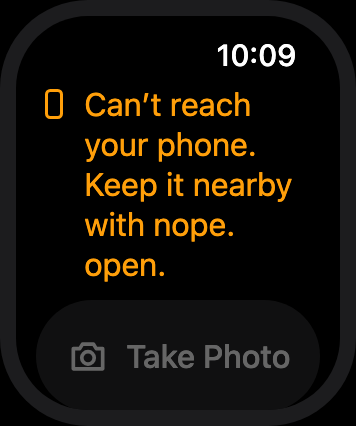
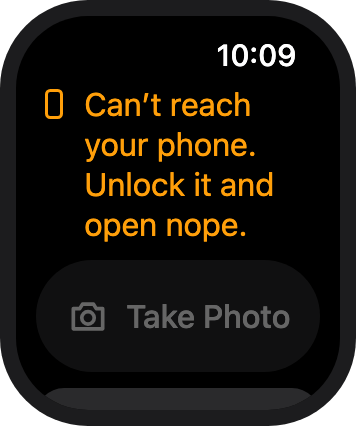
Watch unreachable warning: docs, device check, comps and changelog
Follows the new watch text. The phoneNotReachable doc comment and its API
reference name the locked and background cases; the "Apple Watch on a
device" check expects the unreachable warning when the iPhone is locked or
nope. is in the background or closed; the two design PNGs are re-rendered
from their updated HTML; the 40 mm comp is captioned "A long status at
40 mm"; and the 1.0.0 changelog records the text change.

diff --git a/docs/design/watch.html b/docs/design/watch.html
@@ -67,7 +67,7 @@ code{font:13px ui-monospace,Menlo,monospace}
 <li>No night mode on the watch: the watch app does not turn red when Night Mode is on. No complication and no Smart Stack widget.</li>
 <li>No special Always On drawing: the system dims the app.</li></ul>
 <p>These are statements of what exists in 1.0.0, not gaps in the drawings. None is added in 1.0.0; a stored Delay, or night mode on the watch, would be new capabilities.</p>
-<h2>States</h2><h3 id="the">The screen and its results</h3><div class="figs small"><figure id="watch-ready"><a href="screens/watch-ready.html"><img src="screens/watch-ready.png" width="180" alt="Apple Watch: Ready" loading="lazy" style="border-radius:12px"></a><figcaption><b>Apple Watch: Ready</b>Status, the shutter and Delay. The button is at least 56 pt tall and full width.</figcaption></figure><figure id="watch-countdown"><a href="screens/watch-countdown.html"><img src="screens/watch-countdown.png" width="180" alt="Apple Watch: Counting down" loading="lazy" style="border-radius:12px"></a><figcaption><b>Apple Watch: Counting down</b>The button becomes Cancel Timer; each second is a tap on the wrist.</figcaption></figure><figure id="watch-taking"><a href="screens/watch-taking.html"><img src="screens/watch-taking.png" width="180" alt="Apple Watch: Taking the photo" loading="lazy" style="border-radius:12px"></a><figcaption><b>Apple Watch: Taking the photo</b>The shutter is disabled while the phone works.</figcaption></figure><figure id="watch-saved"><a href="screens/watch-saved.html"><img src="screens/watch-saved.png" width="180" alt="Apple Watch: Saved, not signed" loading="lazy" style="border-radius:12px"></a><figcaption><b>Apple Watch: Saved, not signed</b>With signing off this is plain status, not a warning.</figcaption></figure><figure id="watch-signed"><a href="screens/watch-signed.html"><img src="screens/watch-signed.png" width="180" alt="Apple Watch: Saved and signed" loading="lazy" style="border-radius:12px"></a><figcaption><b>Apple Watch: Saved and signed</b>Teal marks the verified result, with a seal and words.</figcaption></figure><figure id="watch-several-signed"><a href="screens/watch-several-signed.html"><img src="screens/watch-several-signed.png" width="180" alt="Apple Watch: Several photos saved and signed" loading="lazy" style="border-radius:12px"></a><figcaption><b>Apple Watch: Several photos saved and signed</b>A bracket started on the phone’s settings: every photo is signed.</figcaption></figure><figure id="watch-several-unsigned"><a href="screens/watch-several-unsigned.html"><img src="screens/watch-several-unsigned.png" width="180" alt="Apple Watch: Several photos saved, not all signed" loading="lazy" style="border-radius:12px"></a><figcaption><b>Apple Watch: Several photos saved, not all signed</b>Some photos of the bracket are not signed. As with one photo, this reads as plain status when signing is off by choice (BUILD-SPEC.md, section 6, item 6).</figcaption></figure><figure id="watch-failed"><a href="screens/watch-failed.html"><img src="screens/watch-failed.png" width="180" alt="Apple Watch: Not saved" loading="lazy" style="border-radius:12px"></a><figcaption><b>Apple Watch: Not saved</b>The watch points to the phone, which shows the reason.</figcaption></figure><figure id="watch-cancelled"><a href="screens/watch-cancelled.html"><img src="screens/watch-cancelled.png" width="180" alt="Apple Watch: Timer canceled" loading="lazy" style="border-radius:12px"></a><figcaption><b>Apple Watch: Timer canceled</b>After Cancel Timer: plain status, and the shutter is back.</figcaption></figure><figure id="watch-busy"><a href="screens/watch-busy.html"><img src="screens/watch-busy.png" width="180" alt="Apple Watch: The phone was busy" loading="lazy" style="border-radius:12px"></a><figcaption><b>Apple Watch: The phone was busy</b>The phone was already taking a photo, counting down, in a burst or in a series, so nothing was taken.</figcaption></figure><figure id="watch-delay"><a href="screens/watch-delay.html"><img src="screens/watch-delay.png" width="180" alt="Apple Watch: Delay" loading="lazy" style="border-radius:12px"></a><figcaption><b>Apple Watch: Delay</b>A pushed list: Off, 3 seconds, 10 seconds.</figcaption></figure></div><h3 id="when">When the camera is not available</h3><div class="figs small"><figure id="watch-connecting"><a href="screens/watch-connecting.html"><img src="screens/watch-connecting.png" width="180" alt="Apple Watch: Connecting" loading="lazy" style="border-radius:12px"></a><figcaption><b>Apple Watch: Connecting</b>While the watch first reaches the phone. Plain status; the shutter is disabled.</figcaption></figure><figure id="watch-unreachable"><a href="screens/watch-unreachable.html"><img src="screens/watch-unreachable.png" width="180" alt="Apple Watch: Phone not reachable" loading="lazy" style="border-radius:12px"></a><figcaption><b>Apple Watch: Phone not reachable</b>Amber, with a symbol and words; the shutter is disabled.</figcaption></figure><figure id="watch-no-access"><a href="screens/watch-no-access.html"><img src="screens/watch-no-access.png" width="180" alt="Apple Watch: Camera access needed" loading="lazy" style="border-radius:12px"></a><figcaption><b>Apple Watch: Camera access needed</b>One of four camera-unavailable messages.</figcaption></figure><figure id="watch-access-off"><a href="screens/watch-access-off.html"><img src="screens/watch-access-off.png" width="180" alt="Apple Watch: Camera access is off" loading="lazy" style="border-radius:12px"></a><figcaption><b>Apple Watch: Camera access is off</b>Camera access was refused on the phone. Amber, with a triangle and words.</figcaption></figure><figure id="watch-no-camera"><a href="screens/watch-no-camera.html"><img src="screens/watch-no-camera.png" width="180" alt="Apple Watch: No camera" loading="lazy" style="border-radius:12px"></a><figcaption><b>Apple Watch: No camera</b>The phone has no usable camera.</figcaption></figure><figure id="watch-not-running"><a href="screens/watch-not-running.html"><img src="screens/watch-not-running.png" width="180" alt="Apple Watch: nope. not running on the phone" loading="lazy" style="border-radius:12px"></a><figcaption><b>Apple Watch: nope. not running on the phone</b>The camera is not running on the phone.</figcaption></figure><figure id="watch-not-taken"><a href="screens/watch-not-taken.html"><img src="screens/watch-not-taken.png" width="180" alt="Apple Watch: No photo taken" loading="lazy" style="border-radius:12px"></a><figcaption><b>Apple Watch: No photo taken</b>Nothing was taken because the camera was not available; the status line says why.</figcaption></figure><figure id="watch-update"><a href="screens/watch-update.html"><img src="screens/watch-update.png" width="180" alt="Apple Watch: Versions differ" loading="lazy" style="border-radius:12px"></a><figcaption><b>Apple Watch: Versions differ</b>The phone and the watch run different versions.</figcaption></figure></div><h3 id="case">Case sizes</h3><div class="figs small"><figure id="watch-40mm"><a href="screens/watch-40mm.html"><img src="screens/watch-40mm.png" width="180" alt="Apple Watch: Smallest case (40 mm)" loading="lazy" style="border-radius:12px"></a><figcaption><b>Apple Watch: Smallest case (40 mm)</b>The set is drawn at 46 mm (208 × 248 pt). At 40 mm (162 × 197 pt) the status wraps, the shutter keeps its 56 pt height and Delay scrolls into view. Nothing is cut.</figcaption></figure><figure id="watch-40mm-warning"><a href="screens/watch-40mm-warning.html"><img src="screens/watch-40mm-warning.png" width="180" alt="Apple Watch: Smallest case, a long message" loading="lazy" style="border-radius:12px"></a><figcaption><b>Apple Watch: Smallest case, a long message</b>The longest status at 40 mm: it wraps to four lines and the view scrolls to the shutter.</figcaption></figure><figure id="watch-49mm"><a href="screens/watch-49mm.html"><img src="screens/watch-49mm.png" width="180" alt="Apple Watch: Largest case (49 mm)" loading="lazy" style="border-radius:12px"></a><figcaption><b>Apple Watch: Largest case (49 mm)</b>At 49 mm (205 × 251 pt) the layout is the 46 mm one with slightly more height.</figcaption></figure></div><h3 id="largest">Largest text size</h3><div class="figs small"><figure id="watch-largest"><a href="screens/watch-largest.html"><img src="screens/watch-largest.png" width="180" alt="Apple Watch: Largest text size" loading="lazy" style="border-radius:12px"></a><figcaption><b>Apple Watch: Largest text size</b>The view scrolls; the status wraps and nothing is cut.</figcaption></figure><figure id="watch-largest-countdown"><a href="screens/watch-largest-countdown.html"><img src="screens/watch-largest-countdown.png" width="180" alt="Apple Watch: Largest text size, counting down" loading="lazy" style="border-radius:12px"></a><figcaption><b>Apple Watch: Largest text size, counting down</b>The countdown wraps and Cancel Timer follows; the view scrolls.</figcaption></figure><figure id="watch-largest-delay"><a href="screens/watch-largest-delay.html"><img src="screens/watch-largest-delay.png" width="180" alt="Apple Watch: Largest text size, Delay" loading="lazy" style="border-radius:12px"></a><figcaption><b>Apple Watch: Largest text size, Delay</b>The Delay list at the largest size: one option per row, scrolling.</figcaption></figure></div><h3 id="right">Right to left and a long language</h3><div class="figs small"><figure id="watch-rtl"><a href="screens/watch-rtl.html"><img src="screens/watch-rtl.png" width="180" alt="Apple Watch: Right to left" loading="lazy" style="border-radius:12px"></a><figcaption><b>Apple Watch: Right to left</b>Symbols lead on the right, the time moves to the left, and the Delay value trails on the left. Drawn with English text, as the right-to-left pseudo-language shows it.</figcaption></figure><figure id="watch-rtl-delay"><a href="screens/watch-rtl-delay.html"><img src="screens/watch-rtl-delay.png" width="180" alt="Apple Watch: Right to left, Delay" loading="lazy" style="border-radius:12px"></a><figcaption><b>Apple Watch: Right to left, Delay</b>The checkmark trails on the left.</figcaption></figure><figure id="watch-german"><a href="screens/watch-german.html"><img src="screens/watch-german.png" width="180" alt="Apple Watch: A long language (German)" loading="lazy" style="border-radius:12px"></a><figcaption><b>Apple Watch: A long language (German)</b>The app’s German strings. The button label wraps to two lines inside its 56 pt minimum height, and the Delay label and value stay on one row.</figcaption></figure><figure id="watch-german-warning"><a href="screens/watch-german-warning.html"><img src="screens/watch-german-warning.png" width="180" alt="Apple Watch: A long language, a warning" loading="lazy" style="border-radius:12px"></a><figcaption><b>Apple Watch: A long language, a warning</b>The longest German status wraps and the view scrolls.</figcaption></figure><figure id="watch-german-delay"><a href="screens/watch-german-delay.html"><img src="screens/watch-german-delay.png" width="180" alt="Apple Watch: A long language, Delay" loading="lazy" style="border-radius:12px"></a><figcaption><b>Apple Watch: A long language, Delay</b>The Delay list in German.</figcaption></figure></div><h3 id="always">Always On</h3><div class="figs small"><figure id="watch-always-on"><a href="screens/watch-always-on.html"><img src="screens/watch-always-on.png" width="180" alt="Apple Watch: Always On during a countdown" loading="lazy" style="border-radius:12px"></a><figcaption><b>Apple Watch: Always On during a countdown</b>With the wrist down the system dims the app. The watch app draws nothing special for this state: the countdown text and Cancel Timer stay, dimmed, and the taps on the wrist continue. How often the system refreshes the count while dimmed is checked on a device.</figcaption></figure></div>
+<h2>States</h2><h3 id="the">The screen and its results</h3><div class="figs small"><figure id="watch-ready"><a href="screens/watch-ready.html"><img src="screens/watch-ready.png" width="180" alt="Apple Watch: Ready" loading="lazy" style="border-radius:12px"></a><figcaption><b>Apple Watch: Ready</b>Status, the shutter and Delay. The button is at least 56 pt tall and full width.</figcaption></figure><figure id="watch-countdown"><a href="screens/watch-countdown.html"><img src="screens/watch-countdown.png" width="180" alt="Apple Watch: Counting down" loading="lazy" style="border-radius:12px"></a><figcaption><b>Apple Watch: Counting down</b>The button becomes Cancel Timer; each second is a tap on the wrist.</figcaption></figure><figure id="watch-taking"><a href="screens/watch-taking.html"><img src="screens/watch-taking.png" width="180" alt="Apple Watch: Taking the photo" loading="lazy" style="border-radius:12px"></a><figcaption><b>Apple Watch: Taking the photo</b>The shutter is disabled while the phone works.</figcaption></figure><figure id="watch-saved"><a href="screens/watch-saved.html"><img src="screens/watch-saved.png" width="180" alt="Apple Watch: Saved, not signed" loading="lazy" style="border-radius:12px"></a><figcaption><b>Apple Watch: Saved, not signed</b>With signing off this is plain status, not a warning.</figcaption></figure><figure id="watch-signed"><a href="screens/watch-signed.html"><img src="screens/watch-signed.png" width="180" alt="Apple Watch: Saved and signed" loading="lazy" style="border-radius:12px"></a><figcaption><b>Apple Watch: Saved and signed</b>Teal marks the verified result, with a seal and words.</figcaption></figure><figure id="watch-several-signed"><a href="screens/watch-several-signed.html"><img src="screens/watch-several-signed.png" width="180" alt="Apple Watch: Several photos saved and signed" loading="lazy" style="border-radius:12px"></a><figcaption><b>Apple Watch: Several photos saved and signed</b>A bracket started on the phone’s settings: every photo is signed.</figcaption></figure><figure id="watch-several-unsigned"><a href="screens/watch-several-unsigned.html"><img src="screens/watch-several-unsigned.png" width="180" alt="Apple Watch: Several photos saved, not all signed" loading="lazy" style="border-radius:12px"></a><figcaption><b>Apple Watch: Several photos saved, not all signed</b>Some photos of the bracket are not signed. As with one photo, this reads as plain status when signing is off by choice (BUILD-SPEC.md, section 6, item 6).</figcaption></figure><figure id="watch-failed"><a href="screens/watch-failed.html"><img src="screens/watch-failed.png" width="180" alt="Apple Watch: Not saved" loading="lazy" style="border-radius:12px"></a><figcaption><b>Apple Watch: Not saved</b>The watch points to the phone, which shows the reason.</figcaption></figure><figure id="watch-cancelled"><a href="screens/watch-cancelled.html"><img src="screens/watch-cancelled.png" width="180" alt="Apple Watch: Timer canceled" loading="lazy" style="border-radius:12px"></a><figcaption><b>Apple Watch: Timer canceled</b>After Cancel Timer: plain status, and the shutter is back.</figcaption></figure><figure id="watch-busy"><a href="screens/watch-busy.html"><img src="screens/watch-busy.png" width="180" alt="Apple Watch: The phone was busy" loading="lazy" style="border-radius:12px"></a><figcaption><b>Apple Watch: The phone was busy</b>The phone was already taking a photo, counting down, in a burst or in a series, so nothing was taken.</figcaption></figure><figure id="watch-delay"><a href="screens/watch-delay.html"><img src="screens/watch-delay.png" width="180" alt="Apple Watch: Delay" loading="lazy" style="border-radius:12px"></a><figcaption><b>Apple Watch: Delay</b>A pushed list: Off, 3 seconds, 10 seconds.</figcaption></figure></div><h3 id="when">When the camera is not available</h3><div class="figs small"><figure id="watch-connecting"><a href="screens/watch-connecting.html"><img src="screens/watch-connecting.png" width="180" alt="Apple Watch: Connecting" loading="lazy" style="border-radius:12px"></a><figcaption><b>Apple Watch: Connecting</b>While the watch first reaches the phone. Plain status; the shutter is disabled.</figcaption></figure><figure id="watch-unreachable"><a href="screens/watch-unreachable.html"><img src="screens/watch-unreachable.png" width="180" alt="Apple Watch: Phone not reachable" loading="lazy" style="border-radius:12px"></a><figcaption><b>Apple Watch: Phone not reachable</b>Amber, with a symbol and words; the shutter is disabled.</figcaption></figure><figure id="watch-no-access"><a href="screens/watch-no-access.html"><img src="screens/watch-no-access.png" width="180" alt="Apple Watch: Camera access needed" loading="lazy" style="border-radius:12px"></a><figcaption><b>Apple Watch: Camera access needed</b>One of four camera-unavailable messages.</figcaption></figure><figure id="watch-access-off"><a href="screens/watch-access-off.html"><img src="screens/watch-access-off.png" width="180" alt="Apple Watch: Camera access is off" loading="lazy" style="border-radius:12px"></a><figcaption><b>Apple Watch: Camera access is off</b>Camera access was refused on the phone. Amber, with a triangle and words.</figcaption></figure><figure id="watch-no-camera"><a href="screens/watch-no-camera.html"><img src="screens/watch-no-camera.png" width="180" alt="Apple Watch: No camera" loading="lazy" style="border-radius:12px"></a><figcaption><b>Apple Watch: No camera</b>The phone has no usable camera.</figcaption></figure><figure id="watch-not-running"><a href="screens/watch-not-running.html"><img src="screens/watch-not-running.png" width="180" alt="Apple Watch: nope. not running on the phone" loading="lazy" style="border-radius:12px"></a><figcaption><b>Apple Watch: nope. not running on the phone</b>The camera is not running on the phone.</figcaption></figure><figure id="watch-not-taken"><a href="screens/watch-not-taken.html"><img src="screens/watch-not-taken.png" width="180" alt="Apple Watch: No photo taken" loading="lazy" style="border-radius:12px"></a><figcaption><b>Apple Watch: No photo taken</b>Nothing was taken because the camera was not available; the status line says why.</figcaption></figure><figure id="watch-update"><a href="screens/watch-update.html"><img src="screens/watch-update.png" width="180" alt="Apple Watch: Versions differ" loading="lazy" style="border-radius:12px"></a><figcaption><b>Apple Watch: Versions differ</b>The phone and the watch run different versions.</figcaption></figure></div><h3 id="case">Case sizes</h3><div class="figs small"><figure id="watch-40mm"><a href="screens/watch-40mm.html"><img src="screens/watch-40mm.png" width="180" alt="Apple Watch: Smallest case (40 mm)" loading="lazy" style="border-radius:12px"></a><figcaption><b>Apple Watch: Smallest case (40 mm)</b>The set is drawn at 46 mm (208 × 248 pt). At 40 mm (162 × 197 pt) the status wraps, the shutter keeps its 56 pt height and Delay scrolls into view. Nothing is cut.</figcaption></figure><figure id="watch-40mm-warning"><a href="screens/watch-40mm-warning.html"><img src="screens/watch-40mm-warning.png" width="180" alt="Apple Watch: Smallest case, a long message" loading="lazy" style="border-radius:12px"></a><figcaption><b>Apple Watch: Smallest case, a long message</b>A long status at 40 mm: it wraps to four lines and the view scrolls to the shutter.</figcaption></figure><figure id="watch-49mm"><a href="screens/watch-49mm.html"><img src="screens/watch-49mm.png" width="180" alt="Apple Watch: Largest case (49 mm)" loading="lazy" style="border-radius:12px"></a><figcaption><b>Apple Watch: Largest case (49 mm)</b>At 49 mm (205 × 251 pt) the layout is the 46 mm one with slightly more height.</figcaption></figure></div><h3 id="largest">Largest text size</h3><div class="figs small"><figure id="watch-largest"><a href="screens/watch-largest.html"><img src="screens/watch-largest.png" width="180" alt="Apple Watch: Largest text size" loading="lazy" style="border-radius:12px"></a><figcaption><b>Apple Watch: Largest text size</b>The view scrolls; the status wraps and nothing is cut.</figcaption></figure><figure id="watch-largest-countdown"><a href="screens/watch-largest-countdown.html"><img src="screens/watch-largest-countdown.png" width="180" alt="Apple Watch: Largest text size, counting down" loading="lazy" style="border-radius:12px"></a><figcaption><b>Apple Watch: Largest text size, counting down</b>The countdown wraps and Cancel Timer follows; the view scrolls.</figcaption></figure><figure id="watch-largest-delay"><a href="screens/watch-largest-delay.html"><img src="screens/watch-largest-delay.png" width="180" alt="Apple Watch: Largest text size, Delay" loading="lazy" style="border-radius:12px"></a><figcaption><b>Apple Watch: Largest text size, Delay</b>The Delay list at the largest size: one option per row, scrolling.</figcaption></figure></div><h3 id="right">Right to left and a long language</h3><div class="figs small"><figure id="watch-rtl"><a href="screens/watch-rtl.html"><img src="screens/watch-rtl.png" width="180" alt="Apple Watch: Right to left" loading="lazy" style="border-radius:12px"></a><figcaption><b>Apple Watch: Right to left</b>Symbols lead on the right, the time moves to the left, and the Delay value trails on the left. Drawn with English text, as the right-to-left pseudo-language shows it.</figcaption></figure><figure id="watch-rtl-delay"><a href="screens/watch-rtl-delay.html"><img src="screens/watch-rtl-delay.png" width="180" alt="Apple Watch: Right to left, Delay" loading="lazy" style="border-radius:12px"></a><figcaption><b>Apple Watch: Right to left, Delay</b>The checkmark trails on the left.</figcaption></figure><figure id="watch-german"><a href="screens/watch-german.html"><img src="screens/watch-german.png" width="180" alt="Apple Watch: A long language (German)" loading="lazy" style="border-radius:12px"></a><figcaption><b>Apple Watch: A long language (German)</b>The app’s German strings. The button label wraps to two lines inside its 56 pt minimum height, and the Delay label and value stay on one row.</figcaption></figure><figure id="watch-german-warning"><a href="screens/watch-german-warning.html"><img src="screens/watch-german-warning.png" width="180" alt="Apple Watch: A long language, a warning" loading="lazy" style="border-radius:12px"></a><figcaption><b>Apple Watch: A long language, a warning</b>The longest German status wraps and the view scrolls.</figcaption></figure><figure id="watch-german-delay"><a href="screens/watch-german-delay.html"><img src="screens/watch-german-delay.png" width="180" alt="Apple Watch: A long language, Delay" loading="lazy" style="border-radius:12px"></a><figcaption><b>Apple Watch: A long language, Delay</b>The Delay list in German.</figcaption></figure></div><h3 id="always">Always On</h3><div class="figs small"><figure id="watch-always-on"><a href="screens/watch-always-on.html"><img src="screens/watch-always-on.png" width="180" alt="Apple Watch: Always On during a countdown" loading="lazy" style="border-radius:12px"></a><figcaption><b>Apple Watch: Always On during a countdown</b>With the wrist down the system dims the app. The watch app draws nothing special for this state: the countdown text and Cancel Timer stay, dimmed, and the taps on the wrist continue. How often the system refreshes the count while dimmed is checked on a device.</figcaption></figure></div>
 </main>
 </body>
 </html>

diff --git a/docs/design/screens/watch-40mm-warning.html b/docs/design/screens/watch-40mm-warning.html
@@ -186,6 +186,6 @@ html{background:#101012}body{margin:0;color:#f2f2f7;font:15px/1.45 -apple-system
 </head>
 <body>
 <div class="stage"><div style="box-sizing:border-box;padding:8px;background:#1c1c1e;border-radius:44px;width:178px"><div class="watch" style="width:162px;height:197px;border-radius:36px"><div class="time">10:09</div><div class="st w"><svg class="ic " width="18" height="18" viewBox="0 0 24 24" fill="none" stroke="currentColor" stroke-width="2" stroke-linecap="round" stroke-linejoin="round" aria-hidden="true"><rect x="7" y="3" width="10" height="18" rx="2.5"/></svg><span>Can’t reach your phone. Unlock it and open nope.</span></div><div class="wb dis"><svg class="ic " width="22" height="22" viewBox="0 0 24 24" fill="none" stroke="currentColor" stroke-width="2" stroke-linecap="round" stroke-linejoin="round" aria-hidden="true"><path d="M4 8h3.5l1.5-2.5h6L16.5 8H20v11H4z"/><circle cx="12" cy="13" r="3.4"/></svg><span>Take Photo</span></div><div class="wb row"><svg class="ic " width="18" height="18" viewBox="0 0 24 24" fill="none" stroke="currentColor" stroke-width="2" stroke-linecap="round" stroke-linejoin="round" aria-hidden="true"><circle cx="12" cy="13.5" r="7"/><path d="M12 13.5V9.5M10 3.5h4"/></svg><span style="flex:1">Delay</span><span style="opacity:.6">Off</span></div></div></div></div>
-<div class="note"><b>Apple Watch: Smallest case, a long message</b>The longest status at 40 mm: it wraps to four lines and the view scrolls to the shutter. Drawn at 178 × 213 pt. <a href="watch-40mm-warning.png">PNG</a> · <a href="../watch.html">Back to the set</a> · <a href="../overview.html">Overview</a></div>
+<div class="note"><b>Apple Watch: Smallest case, a long message</b>A long status at 40 mm: it wraps to four lines and the view scrolls to the shutter. Drawn at 178 × 213 pt. <a href="watch-40mm-warning.png">PNG</a> · <a href="../watch.html">Back to the set</a> · <a href="../overview.html">Overview</a></div>
 </body>
 </html>

diff --git a/Sources/NopeCore/WatchRemote.swift b/Sources/NopeCore/WatchRemote.swift
@@ -41,8 +41,8 @@ public final class WatchRemote {
         /// The watch hasn't heard from the phone yet. Show a neutral placeholder.
         case connecting
 
-        /// The iPhone app can't be reached: the phone is away, off or locked out of the link.
-        /// Say to keep the phone nearby with the app open.
+        /// The iPhone app can't be reached: the phone is away, off or locked, or the app is
+        /// closed or in the background. Say to unlock the phone and open the app.
         case phoneNotReachable
 
         /// The phone's camera is ready. Enable the shutter.

diff --git a/CHANGELOG.md b/CHANGELOG.md
@@ -44,6 +44,7 @@ Languages: 1.0.0 ships in English only (issue #86); Spanish (es, with es-419 ove
   - With Assistant Access (issue #82), Take Bracket with the type Focus asks its own question ("Take a focus bracket of 10 photos?"), and Photos Saved counts the photos a focus bracket saved before it stopped.
 
 ### Changed
+- Apple Watch: when the phone can't be reached, the watch says "Can't reach your phone. Unlock it and open nope." in place of "Keep it nearby with nope. open." iOS suspends the iPhone app when the phone locks or another app comes to the front, and the earlier text named neither case.
 - The self-timer counts down to a fixed deadline (issue #122): a 10-second timer takes its photo 10 seconds after it was started, late only by its last wake instead of by the sum of ten. The number shown is the whole seconds left, rounded up; if the app is held up for more than a second a number is skipped and the photo is still on time. The same countdown runs the Astro start delay and the delays of Take Photo and Take Bracket. `Countdown.deadline` is public, and the Live Activity draws its countdown to it.
 - Interval photos are spaced start to start (issue #123, owner decision): each photo starts one interval after the last one started, so a 2-second exposure every 10 seconds takes a photo every 10 seconds, not every 12, and a series of a number of photos ends when its estimate says while each photo fits. When a photo takes longer than the interval, the next starts as soon as it is saved, with no catch-up photos, and the card says "Each photo takes longer than the interval" in place of "Next photo in" (announced once to VoiceOver) until a photo fits again. A series paused past a start takes that photo when it resumes and continues from it. Interval Shooting says "Takes 10 photos, starting one every 10 seconds.", and when a shutter set by hand is longer than the interval, "The shutter time is longer than the interval, so photos follow one another." (decision 10 of the plan). `NopeCore`: `IntervalProgress.nextPhotoStart` and `isBehindSchedule`, `ManualControlsModel.isShutterLongerThanInterval`. The four new strings are drafts for the Honesty review.
 - An interval series that stops after a time ends on the monotonic clock (issue #106): its end is a moment of `ContinuousClock` set when it starts (`IntervalProgress.deadline` and `duration`, replacing `timeSpan`), so changing the device's time no longer ends it early or late. As decided on 2026-11-18, the end keeps running while the series is paused and while the phone sleeps. The end is shown as a date only when it is shown (`IntervalProgress.endDate(clock:)`, and `timeSpan(date:now:)` for the Live Activity), and the card reads the time left and the next photo's countdown from the monotonic clock.

diff --git a/docs/TESTING.md b/docs/TESTING.md
@@ -1930,10 +1930,12 @@ what needs no hardware, the watchOS Simulator.
   the iPhone); the watch shows "Photo in 3 seconds" and counts down with a light haptic each
   second; Cancel Timer on the watch stops it and nothing is taken; cancelling on the iPhone shows
   "Timer canceled. No photo taken." on the watch.
-- Nothing taken when the camera isn't available: with the iPhone app in the background, closed,
-  or with Settings open over the camera, the watch says "Camera not available. Open nope. on your
-  phone." and Take Photo is disabled; opening the app later takes no photo. With camera access
-  declined, the watch says so. With the iPhone out of range or off, "Can't reach your phone".
+- Nothing taken when the camera isn't available: with Settings open over the camera on the
+  iPhone, the watch says "Camera not available. Open nope. on your phone." and Take Photo is
+  disabled; opening the camera later takes no photo. With camera access declined, the watch says
+  so. With the iPhone locked, the iPhone app in the background or closed, or the iPhone out of
+  range or off, the watch says "Can't reach your phone. Unlock it and open nope." and Take Photo
+  is disabled.
 - A photo whose result the watch missed (lower the wrist during the countdown): raising it shows
   the result.
 - VoiceOver on the watch reads the status, the shutter and the delay, and announces each

diff --git a/docs/api/NopeCore.md b/docs/api/NopeCore.md
@@ -33799,8 +33799,8 @@ public, declared in `Sources/NopeCore/WatchRemote.swift`
 case phoneNotReachable
 ```
 
-The iPhone app can't be reached: the phone is away, off or locked out of the link.
-Say to keep the phone nearby with the app open.
+The iPhone app can't be reached: the phone is away, off or locked, or the app is
+closed or in the background. Say to unlock the phone and open the app.
 
 ## `WatchRemote/Display/ready`
 
